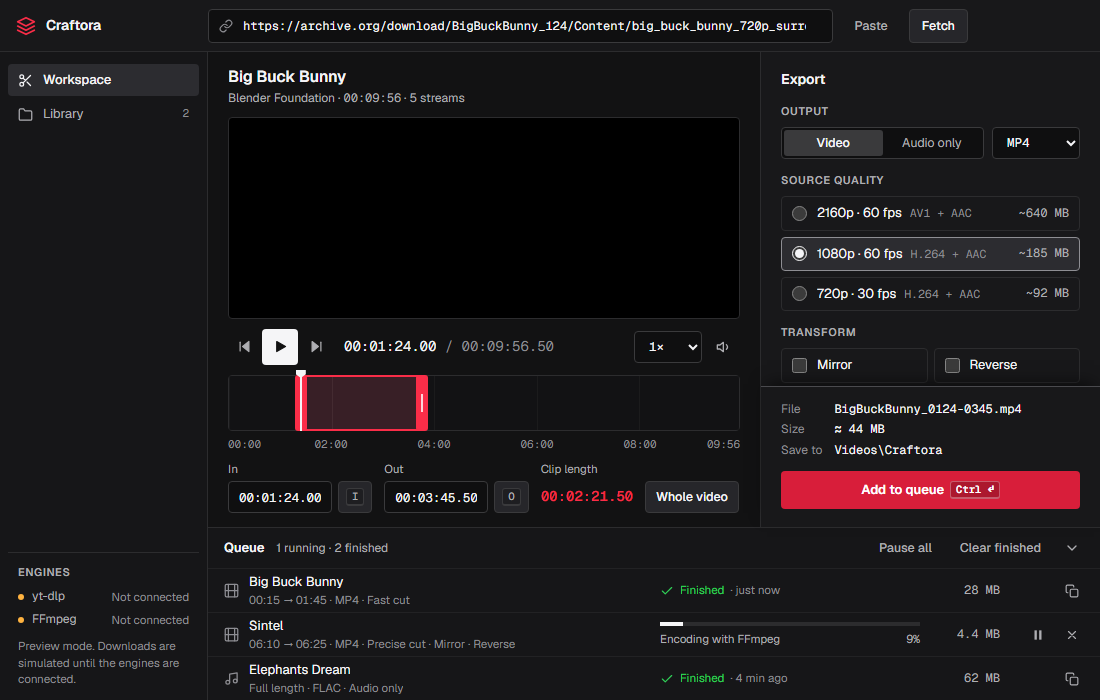
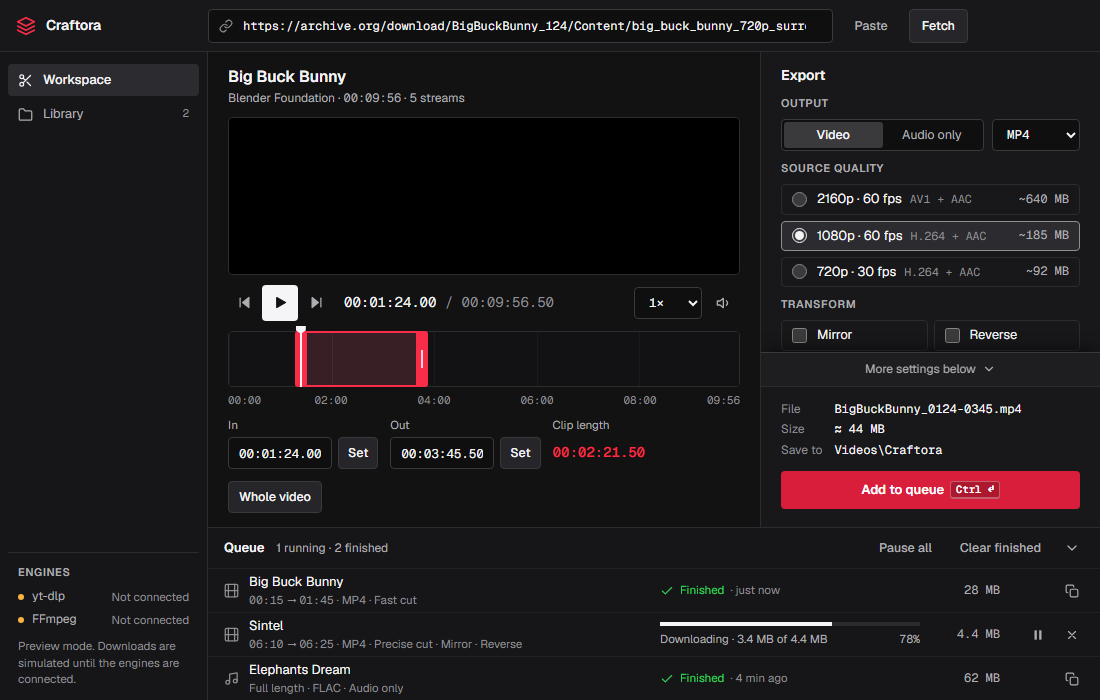
feat: enhance ExportPanel with "More settings below" visibility marker

diff --git a/src/components/ExportPanel.tsx b/src/components/ExportPanel.tsx
@@ -21,23 +21,19 @@ export function ExportPanel({ source, settings, plan, onChange, onAddToQueue, qu
   const [copied, setCopied] = useState(false);
   const [moreBelow, setMoreBelow] = useState(false);
   const bodyRef = useRef<HTMLDivElement>(null);
+  const endRef = useRef<HTMLDivElement>(null);
   const isVideo = settings.output === "video";
 
-  // Shadow the pinned footer while settings are hidden below it.
+  // Show the "More settings below" bar while the end of the settings is out of view.
+  // The marker sits before the bar, so showing the bar never moves it.
   useEffect(() => {
     const body = bodyRef.current;
-    if (!body) return;
-    const update = () => setMoreBelow(body.scrollTop + body.clientHeight < body.scrollHeight - 2);
-    update();
-    const observer = new ResizeObserver(update);
-    observer.observe(body);
-    for (const child of Array.from(body.children)) observer.observe(child);
-    body.addEventListener("scroll", update, { passive: true });
-    return () => {
-      observer.disconnect();
-      body.removeEventListener("scroll", update);
-    };
-  }, [isVideo]);
+    const end = endRef.current;
+    if (!body || !end) return;
+    const observer = new IntersectionObserver(([entry]) => setMoreBelow(!entry.isIntersecting), { root: body });
+    observer.observe(end);
+    return () => observer.disconnect();
+  }, []);
   const streams = source.streams.filter((s) => s.kind === settings.output);
   const hasAudioStreams = source.streams.some((s) => s.kind === "audio");
 
@@ -178,6 +174,7 @@ export function ExportPanel({ source, settings, plan, onChange, onAddToQueue, qu
             </button>
           </div>
         </details>
+        <div ref={endRef} className="export__end" aria-hidden="true" />
 
         {moreBelow && (
           <button

diff --git a/src/components/ExportPanel.css b/src/components/ExportPanel.css
@@ -9,6 +9,7 @@
 }
 
 .export__body {
+  position: relative;
   flex: 1;
   min-height: 0;
   overflow-y: auto;
@@ -92,7 +93,13 @@
 .export__command {
   border-top: 1px solid var(--line);
   padding-top: 12px;
-  margin-bottom: 18px;
+}
+
+/* Visibility marker for the end of the settings; also the bottom breathing room. */
+.export__end {
+  flex-shrink: 0;
+  height: 18px;
+  margin-top: -14px;
 }
 
 .export__command summary {
